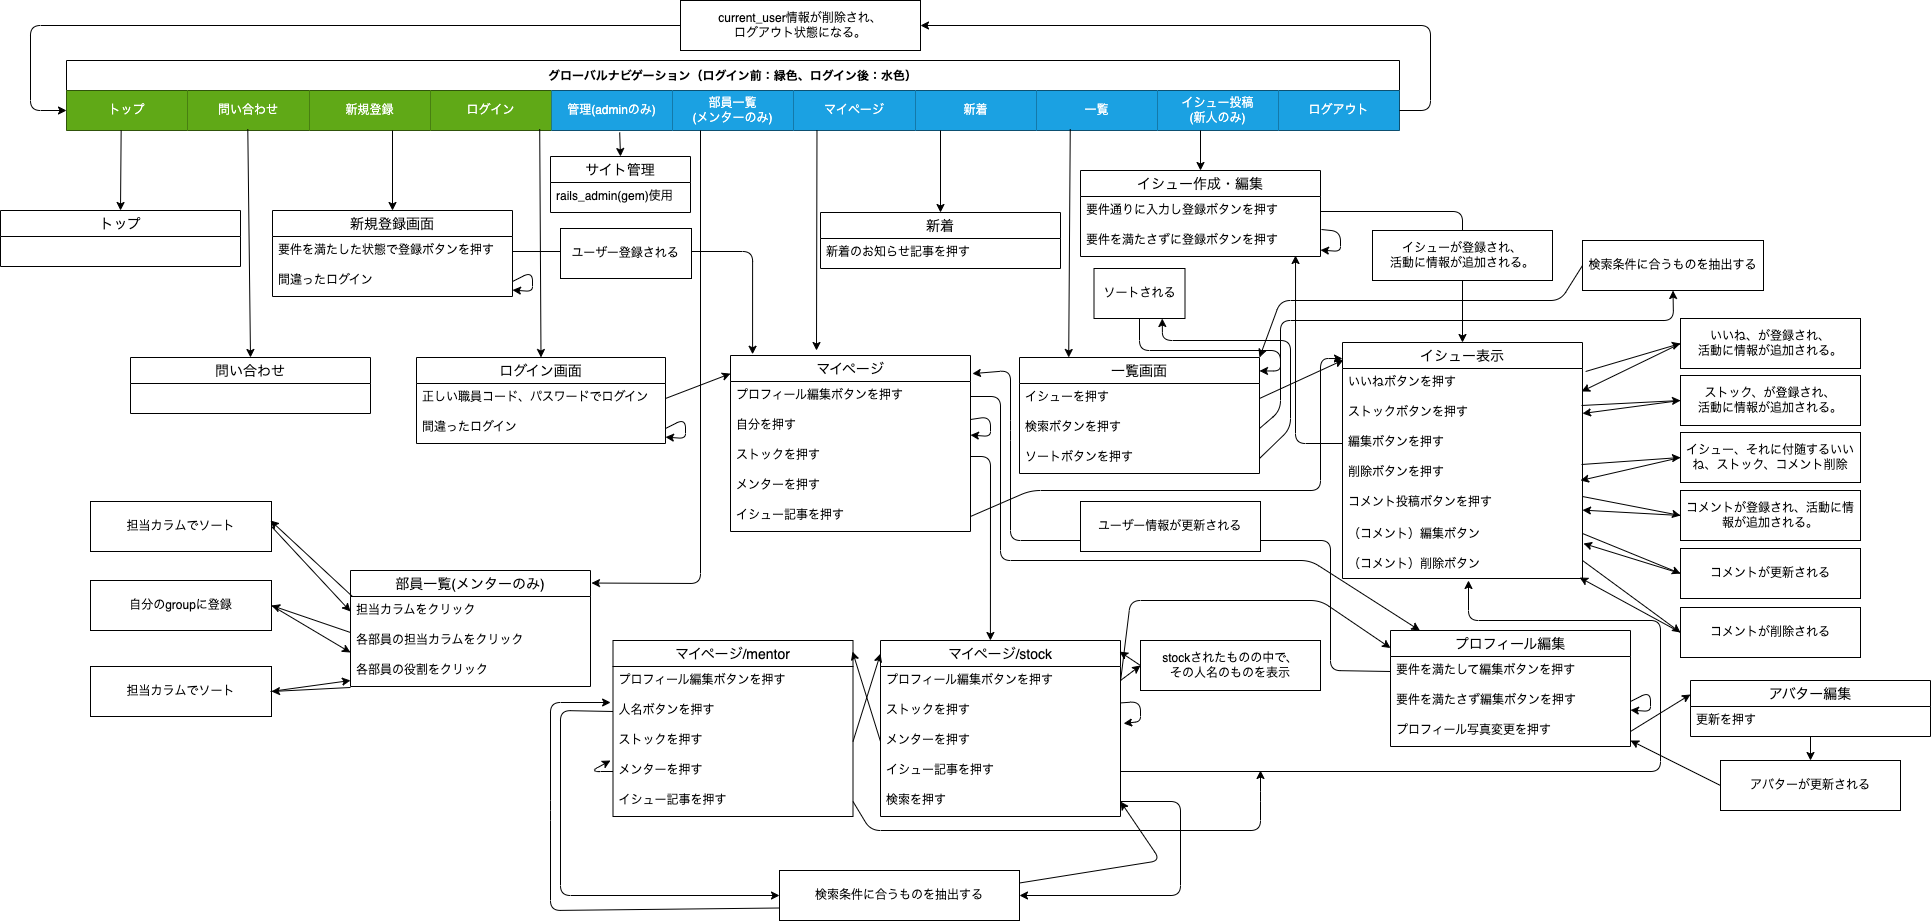
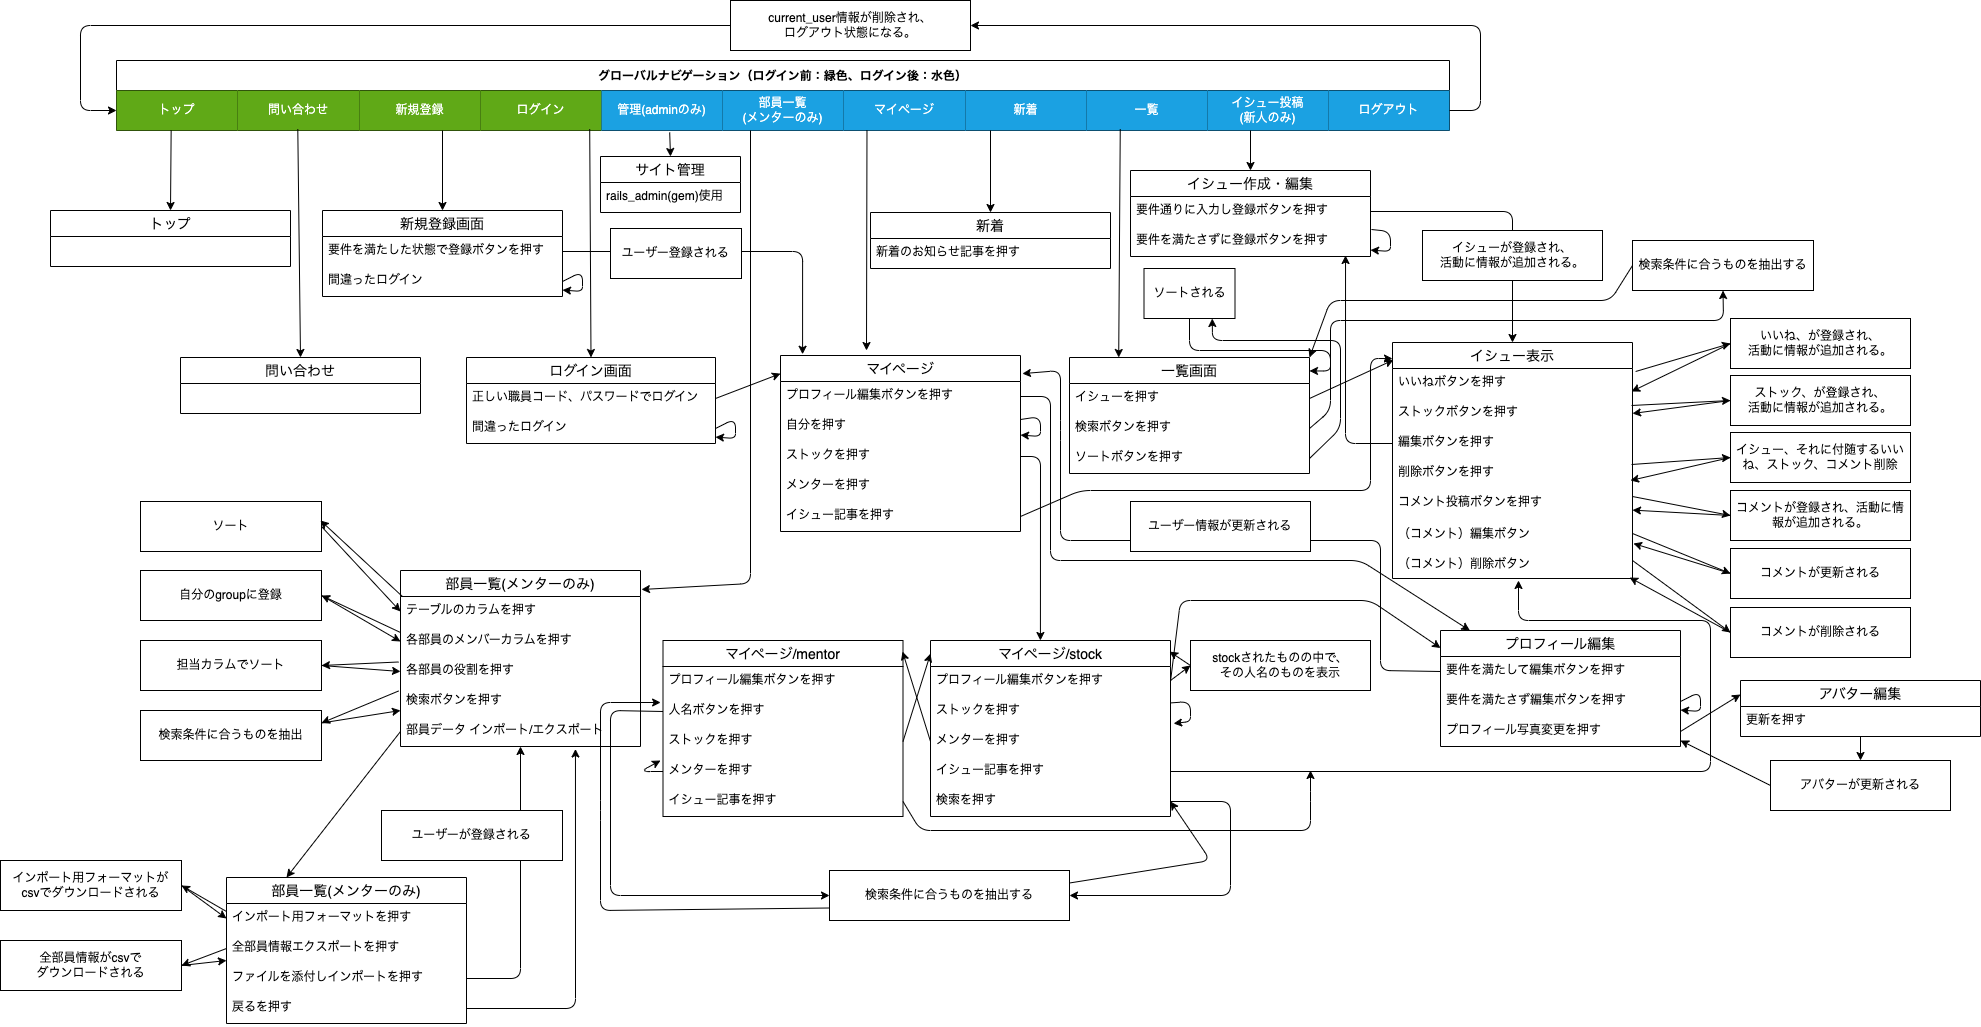
add:csvインポート機能の説明追加

diff --git a/README.md b/README.md
@@ -35,6 +35,7 @@
 ### ruby gem
 
 - action text
+- activerecord-import
 - acts-as-taggable-on
 - active storage
 - ransack
@@ -54,6 +55,7 @@
 
 - ユーザー機能
   * ユーザー作成/編集
+  * ユーザーデータのcsvインポート
   * ユーザーログイン / ログアウト
   * 管理者
 
